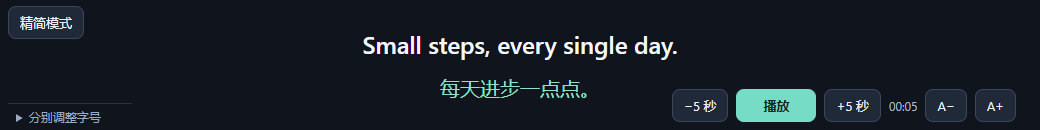
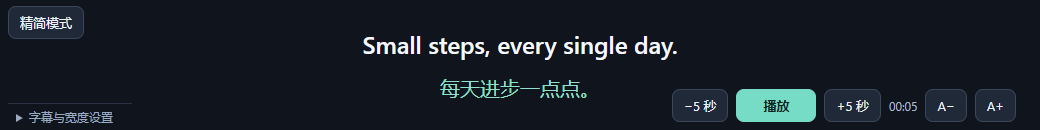
Publish v1.4.0 with YouTube caption fallback and layout settings

Changed region(s): [[0.0308, 0.8615, 0.1231, 0.9538]]

diff --git a/extension/content.js b/extension/content.js
@@ -5,18 +5,23 @@
 
   const reader = globalThis.TrancyFloatReader;
   const sizeKeys = ['originalSize', 'translationSize'];
-  const defaults = { originalSize: 30, translationSize: 24, compactMode: false };
+  const defaults = { originalSize: 30, translationSize: 24, subtitleGap: 12, windowWidth: 1000, compactMode: false };
   let settings = { ...defaults };
   let pip = null, ui = null, opening = false, video = null;
   let observer = null, heartbeat = null;
+  let nativeCaptionsRequested = false;
   let launcher = null, launcherRoot = null, toastTimer = null;
   let pageKey = location.href, storedError = false;
   const observedTargets = new Set();
   const clamp = (value, fallback) => Number.isFinite(Number(value)) ? Math.max(14, Math.min(72, Math.round(Number(value)))) : fallback;
+  const bounded = (value, fallback, min, max) => value !== null && value !== '' && Number.isFinite(Number(value))
+    ? Math.max(min, Math.min(max, Math.round(Number(value)))) : fallback;
 
-  chrome.storage.local.get(defaults).then(saved => {
+  const settingsReady = chrome.storage.local.get(defaults).then(saved => {
     settings.originalSize = clamp(saved.originalSize, defaults.originalSize);
     settings.translationSize = clamp(saved.translationSize, defaults.translationSize);
+    settings.subtitleGap = bounded(saved.subtitleGap, defaults.subtitleGap, 0, 80);
+    settings.windowWidth = bounded(saved.windowWidth, defaults.windowWidth, 240, 1920);
     settings.compactMode = saved.compactMode === true;
     applySize();
     applyCompactMode();
@@ -36,7 +41,7 @@
   function setText(el, text) { if (el && el.textContent !== text) el.textContent = text; }
 
   const css = `
-    :root {color-scheme:dark; --original-size:30px; --translation-size:24px}
+    :root {color-scheme:dark; --original-size:30px; --translation-size:24px; --subtitle-gap:12px}
     * {box-sizing:border-box}
     body {margin:0;background:#10141d;color:#f4f7fb;font-family:"Segoe UI","Microsoft YaHei",sans-serif;height:100vh;display:flex;flex-direction:column;position:relative}
     .tf-controls {position:absolute;z-index:2;transition:opacity .15s ease}
@@ -47,7 +52,7 @@
     button:disabled {opacity:.45;cursor:default}
     #tf-play {min-width:80px;background:#77dcc6;color:#102722;border-color:#77dcc6;font-weight:700}
     #tf-time {font-size:12px;color:#aab8cc;font-variant-numeric:tabular-nums;white-space:nowrap}
-    main {flex:1;min-height:0;overflow:auto;padding:10px 24px;display:flex;flex-direction:column;justify-content:safe center;gap:12px;text-align:center}
+    main {flex:1;min-height:0;overflow:auto;padding:10px 24px;display:flex;flex-direction:column;justify-content:safe center;gap:var(--subtitle-gap);text-align:center}
     #tf-original {font-size:var(--original-size);line-height:1.45;font-weight:600;white-space:pre-wrap;overflow-wrap:anywhere}
     #tf-translation {font-size:var(--translation-size);line-height:1.5;color:#8fe1cc;white-space:pre-wrap;overflow-wrap:anywhere}
     #tf-empty {font-size:15px;color:#9cabbe;line-height:1.65}
@@ -58,6 +63,8 @@
     .sizes {position:absolute;left:0;bottom:30px;display:grid;grid-template-columns:auto 1fr auto;align-items:center;gap:8px 12px;padding:12px;min-width:260px;max-height:calc(100vh - 40px);overflow:auto;background:#17202e;border:1px solid #3b475b;border-radius:8px}
     input {accent-color:#77dcc6;min-width:80px;width:100%}
     output {min-width:34px;text-align:right;font-variant-numeric:tabular-nums}
+    #tf-windowWidth {background:#10141d;color:#f4f7fb;border:1px solid #3b475b;border-radius:4px;padding:4px}
+    #tf-width-status {grid-column:1/-1;max-width:300px;line-height:1.5}
     #tf-compact[aria-pressed="true"] {color:#9af0d9;border-color:#77dcc6;background:#173d36}
     body.compact:not(:hover):not(.keyboard-controls) .tf-controls {opacity:0;visibility:hidden;pointer-events:none}
     @media(prefers-reduced-motion:reduce) {.tf-controls {transition:none}}
@@ -96,22 +103,43 @@
     const footer = element(doc, 'footer', { class: 'tf-controls' });
     const status = element(doc, 'span', { id: 'tf-status', role: 'status' }, '正在连接视频');
     const details = element(doc, 'details');
-    details.append(element(doc, 'summary', {}, '分别调整字号'));
+    details.append(element(doc, 'summary', {}, '字幕与宽度设置'));
     const sizes = element(doc, 'div', { class: 'sizes' });
     const inputs = {}, outputs = {};
-    for (const [key, label] of [['originalSize', '原文'], ['translationSize', '译文']]) {
+    for (const [key, label, min, max] of [['originalSize', '原文字号', 14, 72], ['translationSize', '译文字号', 14, 72], ['subtitleGap', '双语间距', 0, 80]]) {
       const id = `tf-${key}`;
-      const input = element(doc, 'input', { id, type: 'range', min: '14', max: '72', step: '1', 'aria-label': `${label}字号` });
+      const input = element(doc, 'input', { id, type: 'range', min: String(min), max: String(max), step: '1', 'aria-label': label });
       const output = element(doc, 'output', { for: id });
       input.addEventListener('input', () => { settings[key] = Number(input.value); applySize(); });
       input.addEventListener('change', saveSettings);
       sizes.append(element(doc, 'label', { for: id }, label), input, output);
       inputs[key] = input; outputs[key] = output;
     }
+    const widthInput = element(doc, 'input', { id: 'tf-windowWidth', type: 'number', min: '240', max: '1920', step: '1', 'aria-label': '目标窗口宽度（px）' });
+    widthInput.value = String(settings.windowWidth);
+    const applyWidth = button(doc, '应用', '应用窗口宽度', () => {
+      settings.windowWidth = bounded(widthInput.value, defaults.windowWidth, 240, 1920);
+      widthInput.value = String(settings.windowWidth);
+      saveSettings();
+      try {
+        // resizeTo uses the outer window size. Chrome still enforces its own cap.
+        win.resizeTo(settings.windowWidth, win.outerHeight);
+        win.setTimeout(() => updateWidthStatus(win), 250);
+      } catch {
+        setText(widthStatus, 'Chrome 未允许调整宽度；请尝试拖动窗口边缘。');
+      }
+    });
+    widthInput.addEventListener('keydown', event => {
+      if (event.key === 'Enter') { event.preventDefault(); applyWidth.click(); }
+    });
+    const widthStatus = element(doc, 'span', { id: 'tf-width-status', role: 'status' });
+    sizes.append(element(doc, 'label', { for: 'tf-windowWidth' }, '窗口宽度'), widthInput, applyWidth, widthStatus);
     details.append(sizes);
     footer.append(details);
     doc.body.append(main, modeControl, footer, header, status);
-    ui = { original, translation, empty, status, time, play, rewind, forward, inputs, outputs, compact };
+    ui = { original, translation, empty, status, time, play, rewind, forward, inputs, outputs, compact, widthStatus };
+    win.addEventListener('resize', () => updateWidthStatus(win));
+    updateWidthStatus(win);
     doc.addEventListener('keydown', event => {
       // Reveal controls before the browser moves keyboard focus with Tab.
       if (event.key === 'Tab') doc.body.classList.add('keyboard-controls');
@@ -143,10 +171,17 @@
     if (!pip || pip.closed || !ui) return;
     pip.document.documentElement.style.setProperty('--original-size', `${settings.originalSize}px`);
     pip.document.documentElement.style.setProperty('--translation-size', `${settings.translationSize}px`);
-    for (const key of sizeKeys) {
+    pip.document.documentElement.style.setProperty('--subtitle-gap', `${settings.subtitleGap}px`);
+    for (const key of [...sizeKeys, 'subtitleGap']) {
       ui.inputs[key].value = String(settings[key]);
       setText(ui.outputs[key], `${settings[key]} px`);
     }
+  }
+  function updateWidthStatus(win) {
+    if (!ui || win.closed || win !== pip) return;
+    const actual = Math.round(win.outerWidth);
+    const limited = actual < settings.windowWidth - 2;
+    setText(ui.widthStatus, `实际宽度 ${actual} px${limited ? `，目标 ${settings.windowWidth} px 未达到。` : '。'}Chrome 上限约为屏幕宽度的 80%，填写 1920 无法绕过此限制。`);
   }
   function saveSettings() {
     chrome.storage.local.set(settings).catch(() => {
@@ -204,24 +239,35 @@
     bindVideo();
     const ad = !!document.querySelector('#movie_player.ad-showing, #movie_player.ad-interrupting');
     const result = ad ? { original: '', translation: '', found: true } : reader.read(document);
+    if (!ad) {
+      if (result.trancyActive) nativeCaptionsRequested = false;
+      else if (!nativeCaptionsRequested) {
+        const cc = document.querySelector('#movie_player .ytp-subtitles-button');
+        if (cc && !cc.disabled && cc.getAttribute('aria-disabled') !== 'true') {
+          // Try once when entering native mode. Do not fight manual CC changes.
+          nativeCaptionsRequested = true;
+          if (cc.getAttribute('aria-pressed') === 'false') cc.click();
+        }
+      }
+    }
     // Clear disappeared captions immediately; never leave an old line on screen.
     setText(ui.original, result.original);
     setText(ui.translation, result.translation);
     ui.original.hidden = !result.original;
     ui.translation.hidden = !result.translation;
     ui.empty.hidden = !!(result.original || result.translation);
-    setText(ui.empty, ad ? '广告播放中，等待正片…' : result.found ? '当前没有字幕，等待下一句…' : '请在 YouTube 开启 Trancy 双语字幕。\n保持视频页面打开，即可最小化浏览器。');
+    setText(ui.empty, ad ? '广告播放中，等待正片…' : result.found ? '当前没有字幕，等待下一句…' : '请开启 YouTube 字幕（CC）或 Trancy 双语字幕。\n视频需要有可用字幕。');
     setText(ui.play, video && !video.paused && !video.ended ? '暂停' : '播放');
     for (const control of [ui.play, ui.rewind, ui.forward]) control.disabled = !video;
     setText(ui.time, formatTime(video?.currentTime));
-    setText(ui.status, storedError ? '设置仅本次有效；请刷新页面后重试' : !video ? '未找到 YouTube 视频' : ad ? '广告中' : result.source ? `${result.source} · ${video.paused ? '已暂停' : '同步中'}` : '等待 Trancy');
+    setText(ui.status, storedError ? '设置仅本次有效；请刷新页面后重试' : !video ? '未找到 YouTube 视频' : ad ? '广告中' : result.source ? `${result.source} · ${video.paused ? '已暂停' : '同步中'}` : '等待字幕');
   }
 
   function observeCaptions() {
     if (!observer) return;
     const targets = new Set();
     for (const root of reader.rootsOf(document)) {
-      for (const target of root.querySelectorAll('trancy-caption-window, trancy-app, .trancy-subtitle-container')) targets.add(target);
+      for (const target of root.querySelectorAll('trancy-caption-window, trancy-app, .trancy-subtitle-container, #movie_player .ytp-caption-window-container, #movie_player .ytp-subtitles-button')) targets.add(target);
       if (root !== document) targets.add(root);
     }
     // Reconnect when React replaces a host; discard detached observer targets.
@@ -229,7 +275,7 @@
       observer.disconnect(); observedTargets.clear();
     }
     for (const target of targets) if (!observedTargets.has(target)) {
-      observer.observe(target, { childList: true, subtree: true, characterData: true, attributes: true, attributeFilter: ['class', 'style', 'hidden', 'aria-hidden'] });
+      observer.observe(target, { childList: true, subtree: true, characterData: true, attributes: true, attributeFilter: ['class', 'style', 'hidden', 'aria-hidden', 'aria-pressed'] });
       observedTargets.add(target);
     }
   }
@@ -239,6 +285,7 @@
     observer?.disconnect(); observer = null; observedTargets.clear();
     if (video) for (const name of ['timeupdate', 'play', 'pause', 'ended', 'seeked', 'loadedmetadata', 'emptied']) video.removeEventListener(name, sync);
     video = null; ui = null; pip = null;
+    nativeCaptionsRequested = false;
     if (launcherRoot) setText(launcherRoot.querySelector('button'), '字幕浮窗');
   }
   async function openPip() {
@@ -247,7 +294,8 @@
     if (!window.documentPictureInPicture) { showToast('需要桌面版 Chrome 116 或以上版本'); return false; }
     opening = true;
     try {
-      pip = await window.documentPictureInPicture.requestWindow({ width: 1000, height: 160 });
+      await settingsReady;
+      pip = await window.documentPictureInPicture.requestWindow({ width: settings.windowWidth, height: 160 });
       buildWindow(pip);
       pip.addEventListener('pagehide', stopSync, { once: true });
       observer = new MutationObserver(sync);

diff --git a/extension/reader.js b/extension/reader.js
@@ -1,4 +1,4 @@
-/* Local DOM adapter for Trancy 7.9.4. No access to Trancy accounts or internals. */
+/* Local caption DOM adapters. No access to accounts or private player APIs. */
 (() => {
   'use strict';
   const normalize = text => String(text || '').replace(/\s+/gu, ' ').trim();
@@ -45,27 +45,53 @@
 
   function read(doc) {
     const roots = rootsOf(doc);
-    let found = false;
+    let trancyActive = false;
     for (const root of roots) {
       for (const box of root.querySelectorAll('.trancy-caption-content')) {
-        found = true;
         if (!visible(box)) continue;
+        trancyActive = true;
         const original = textOf(box.querySelector('.trancy-caption-primary'));
         const translatedElement = box.querySelector('.trancy-caption-secondary');
         const translation = translatedElement?.matches('.ai-loading, .error') ? '' : textOf(translatedElement);
-        if (original || translation) return { original, translation, source: 'Trancy 双语字幕', found: true };
+        if (original || translation) return { original, translation, source: 'Trancy 双语字幕', found: true, trancyActive: true };
       }
       // Learning/reading mode contains many sentences: read only the active one.
       for (const row of root.querySelectorAll('.trancy-subtitle-wrapper.active')) {
-        found = true;
         if (!visible(row)) continue;
+        trancyActive = true;
         const original = textOf(row.querySelector('.trancy-primary-subtitle'));
         const translation = textOf(row.querySelector('.trancy-secondary-subtitle'));
-        if (original || translation) return { original, translation, source: 'Trancy 学习模式', found: true };
+        if (original || translation) return { original, translation, source: 'Trancy 学习模式', found: true, trancyActive: true };
       }
-      found ||= !!root.querySelector('trancy-caption-window, trancy-app, .trancy-subtitle-container');
+      trancyActive ||= [...root.querySelectorAll('.trancy-subtitle-container')].some(visible);
     }
-    return { original: '', translation: '', source: '', found };
+    // A visible but temporarily empty Trancy box still owns the subtitles.
+    // Hidden/leftover hosts alone must not block the native fallback.
+    if (trancyActive) return { original: '', translation: '', source: 'Trancy 双语字幕', found: true, trancyActive: true };
+    return readYouTube(doc);
+  }
+
+  function readYouTube(doc) {
+    const player = doc.querySelector('#movie_player');
+    const cc = player?.querySelector('.ytp-subtitles-button');
+    const enabled = cc?.getAttribute('aria-pressed');
+    const lines = [];
+    // Respect CC being switched off, even if YouTube retains stale caption DOM.
+    if (enabled !== 'false') {
+      for (const box of player?.querySelectorAll('.ytp-caption-window-container .captions-text') || []) {
+        if (!visible(box)) continue;
+        const visualLines = box.querySelectorAll('.caption-visual-line');
+        const candidates = visualLines.length ? visualLines : [box];
+        for (const line of candidates) {
+          if (!visible(line)) continue;
+          // Keep native whitespace: segments can be partial words, not tokens.
+          const segments = [...line.querySelectorAll('.ytp-caption-segment')].filter(visible);
+          const text = normalize(segments.length ? segments.map(el => el.textContent).join('') : line.textContent);
+          if (text) lines.push(text);
+        }
+      }
+    }
+    return { original: lines.join('\n').slice(0, 12000), translation: '', source: 'YouTube 原生字幕', found: enabled === 'true' || lines.length > 0, trancyActive: false };
   }
   globalThis.TrancyFloatReader = Object.freeze({ read, rootsOf, joinTokens });
 })();

diff --git a/extension/popup.html b/extension/popup.html
@@ -1,3 +1,3 @@
 <!doctype html>
 <html lang="zh-CN"><head><meta charset="utf-8"><title>Trancy 字幕浮窗</title><link rel="stylesheet" href="popup.css"></head>
-<body><h1>Trancy 字幕浮窗</h1><p>先在 YouTube 打开 Trancy 双语字幕，再打开置顶浮窗。</p><button id="open" type="button">打开字幕浮窗</button><p id="status" role="status">也可以点击视频页面左下角的「字幕浮窗」。</p><small>浮窗内可暂停、继续播放，并分别调整两行字幕字号。保持 YouTube 标签页打开。</small><script src="popup.js"></script></body></html>
+<body><h1>Trancy 字幕浮窗</h1><p>优先显示 Trancy 双语字幕，未开启时显示 YouTube 自带字幕。</p><button id="open" type="button">打开字幕浮窗</button><p id="status" role="status">也可以点击视频页面左下角的「字幕浮窗」。</p><small>浮窗内可暂停、继续播放，并分别调整两行字幕字号。视频需要有可用字幕，请保持 YouTube 标签页打开。</small><script src="popup.js"></script></body></html>

diff --git a/README.md b/README.md
@@ -1,6 +1,6 @@
 # Trancy 字幕浮窗
 
-把 YouTube 上的 Trancy 双语字幕同步到独立置顶窗口，一边听英语，一边使用其他应用。
+把 YouTube 上的字幕同步到独立置顶窗口，一边听英语，一边使用其他应用。优先显示 Trancy 双语字幕，未开启 Trancy 时自动使用 YouTube 自带字幕。
 
 适用于桌面版 Chrome 116+，按 Trancy **7.9.4** 的字幕结构适配。**这是非官方扩展，与 Trancy 无隶属关系。**
 
@@ -10,13 +10,13 @@
 
 ## 下载与安装
 
-**[下载 v1.2.0 安装包](https://github.com/keryze/trancy-floating-subtitles/raw/refs/heads/main/downloads/trancy-floating-subtitles-v1.2.0.zip)**
+**[下载 v1.4.0 安装包](https://github.com/keryze/trancy-floating-subtitles/raw/refs/heads/main/downloads/trancy-floating-subtitles-v1.4.0.zip)**
 
 1. 下载并解压 ZIP，保留解压后的文件夹。
 2. 在 Chrome 地址栏输入 `chrome://extensions`。
 3. 开启右上角「开发者模式」，点击「加载已解压的扩展程序」。
 4. 选择解压后包含 `manifest.json` 的文件夹。
-5. 刷新 YouTube 视频页面，开启 Trancy 双语字幕。
+5. 刷新 YouTube 视频页面；可以开启 Trancy 双语字幕，也可以使用 YouTube 自带字幕。
 6. 点击页面左下角「字幕浮窗」，或在页面按 **Alt+Shift+S**。
 
 如果下载的是整个仓库源码，加载其中的 **extension** 文件夹。
@@ -25,25 +25,30 @@
 
 ## 功能
 
+- **自动选择字幕来源**：优先显示启用中的 Trancy；Trancy 未开启、隐藏或不存在时回退到 YouTube 自带字幕。恢复 Trancy 后自动切回双语，短暂空句不会混入其他字幕。
+- **原生字幕**：进入原生模式时尝试开启 CC 一次；手动关闭后不会反复开启。跟随 YouTube 当前选择的字幕语言，显示在原文区域，不额外生成译文。
 - 双语字幕居中显示，原文和译文分别调整字号（14–72 px）。
+- **双语间距**：在左下角「字幕与宽度设置」中调节原文与译文的距离，范围 0–80 px，默认 12 px。
+- **窗口宽度**：填写 240–1920 px 后点击「应用」，显示实际宽度；Chrome 自身的大小限制仍然生效。
 - 暂停 / 继续播放，前后跳转 5 秒；焦点在字幕正文时，空格键也可控制播放。
 - **A− / A+** 同时缩小或放大两行字幕。
 - **精简模式**：鼠标移开后只显示字幕，移入后显示控件；字幕位置不跳动。支持 Tab 键唤出控件。
-- 自动记住字号和精简模式。
-- 默认布局：左上是精简模式，左下是分别调整字号，右下是播放、时间与字号快捷按钮。
+- 自动记住字号、双语间距、目标窗口宽度和精简模式。
+- 默认布局：左上是精简模式，左下是字幕与宽度设置，右下是播放、时间与字号快捷按钮。
 
 ## 使用限制
 
-- 需要先安装 Trancy 并启用它的字幕。本扩展不生成或翻译字幕。
+- 视频需要有可用字幕。使用 YouTube 自带字幕无需安装 Trancy；显示双语字幕需要启用 Trancy。本扩展不生成或翻译字幕。
 - 支持 `youtube.com` 和 `www.youtube.com`；不适用于 `learn.trancy.org` 学习中心。
 - 普通双语字幕及旧版学习/阅读模式当前句均有适配。Trancy 更新页面结构后可能需要同步更新适配。
 - 使用 Chrome 原生 Document Picture-in-Picture 置顶窗口。请保留 YouTube 标签页与 Chrome 进程；换视频后重新打开浮窗。
 - Chrome 自带的顶部网址栏无法由此扩展隐藏；不支持透明桌面背景或鼠标穿透。
+- Chrome 原生浮窗最大宽度约为屏幕宽度的 80%。1920 宽屏幕通常只能到约 1536，显示缩放会影响逻辑像素；填写 1920 无法解除浏览器限制。
 - 依赖 Trancy 持续更新字幕。如果 Trancy 在后台停止更新，浮窗无法生成后续译文。
 
 ## 隐私与权限
 
-- 唯一显式申请权限是 `storage`，用于保存字号和模式。
+- 唯一显式申请权限是 `storage`，用于保存字号、间距、目标宽度和模式。
 - 内容脚本只注入 YouTube 的 HTTPS 页面，因此 Chrome 会提示对应网站访问权限。
 - 不读取 Cookie、浏览历史或 Trancy 登录信息，不保存字幕正文。
 - 无外部网络请求、远程字体、遥测或第三方脚本，不需要 API Key。
@@ -59,7 +64,7 @@
 - `extension/popup.*`：Chrome 工具栏入口。
 - `tests/browser-test.cjs`：使用独立浏览器配置的集成测试。
 
-20 项自动化检查已通过：包括字幕切换、节点重建、开放 Shadow DOM、当前句选取、广告期间清空、播放/暂停、字号保存、浮窗重开、精简模式悬停和键盘操作。测试使用模拟 Trancy DOM、真实 Chrome Document PiP 和原生媒体。
+31 项自动化检查已通过：包括原生字幕回退与来源切换、CC 自动开启及手动关闭、间距与宽度设置、字幕切换、节点重建、开放 Shadow DOM、当前句选取、广告期间清空、播放/暂停、字号保存、浮窗重开、精简模式悬停和键盘操作。测试使用模拟 Trancy DOM、真实 Chrome Document PiP 和原生媒体。
 
 真实使用截图已确认能显示双语字幕。Windows 最小化后的持续同步仍未完成专门验证；Headless Chrome 的后台标签页测试不能代替这一验证。
 

diff --git a/CHANGELOG.md b/CHANGELOG.md
@@ -1,5 +1,18 @@
 # 更新记录
 
+## 1.4.0 — 2026-10-14
+
+- Trancy 未启用时自动回退到 YouTube 原生字幕，恢复后切回双语。
+- 进入原生模式时尝试开启 CC 一次；尊重之后手动关闭 CC 的操作。
+- 支持原生字幕多行、逐句更新和容器重建，广告期间清空字幕。
+- 更新无字幕提示；31 项模拟字幕与真实 Chrome 浮窗测试通过。
+
+## 1.3.0 — 2026-10-14
+
+- 新增双语间距设置：0–80 px，默认 12 px。
+- 新增目标窗口宽度设置：240–1920 px，并显示实际宽度。
+- Chrome 原生浮窗上限仍约为屏幕宽度的 80%，本扩展无法解除。
+- 自动保存间距与目标宽度，保留原有精简布局。
 ## 1.2.0 — 2026-10-13
 
 - 默认使用居中的双语字幕布局。
